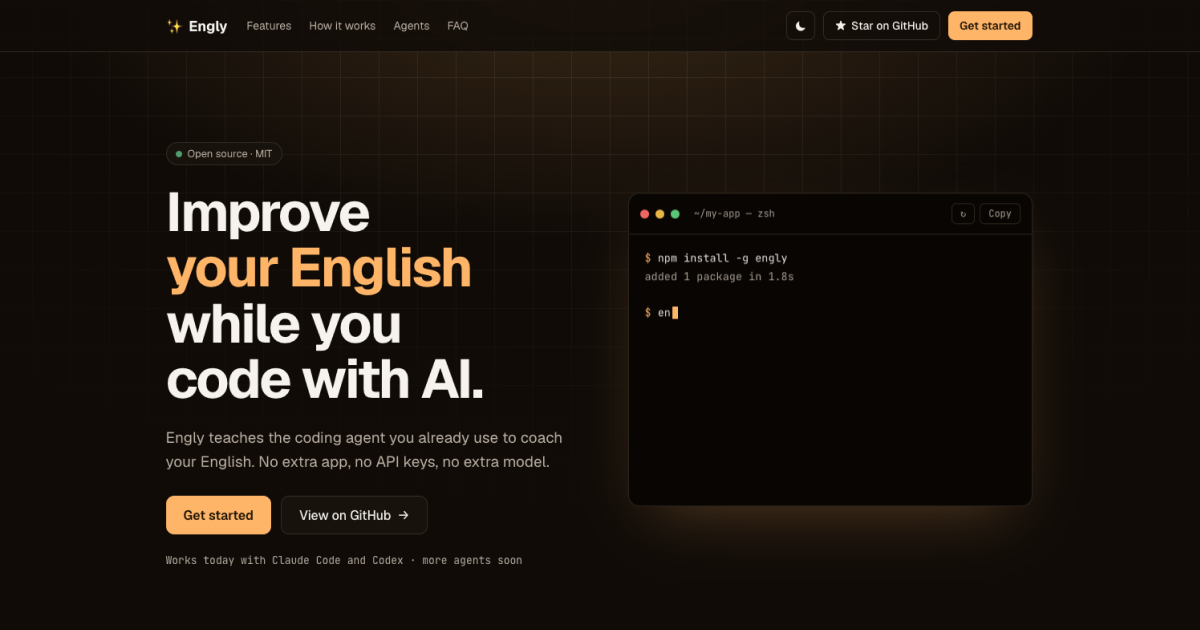
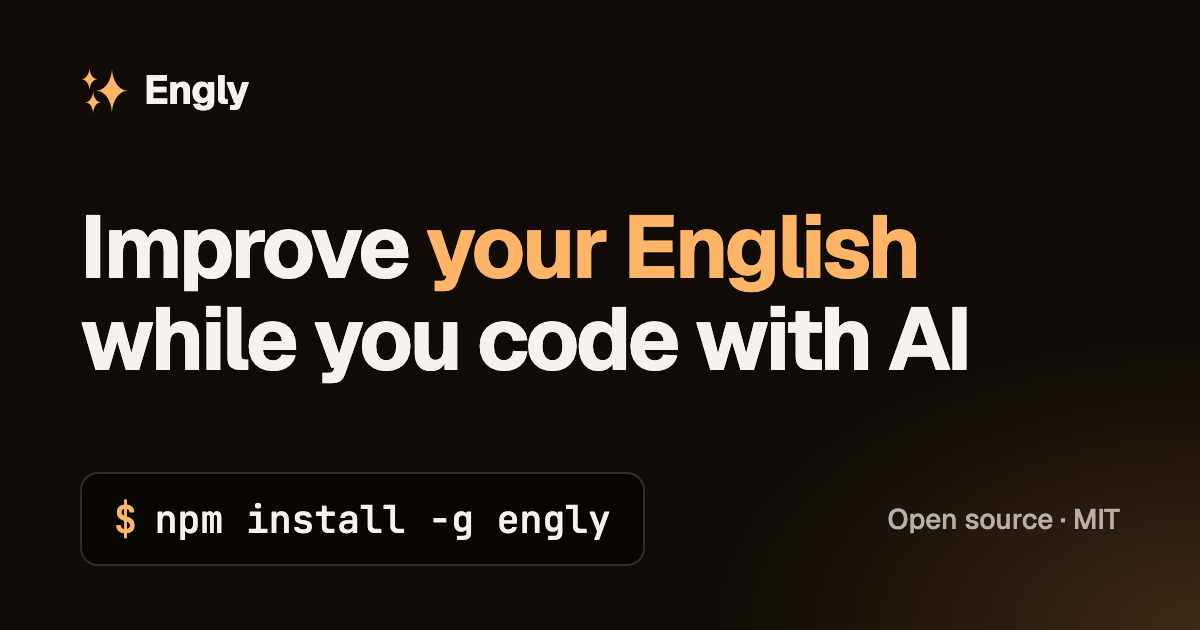
feat: OpenCode support and social preview metadata (1.9.0) (#15)

diff --git a/site/scripts/og.html b/site/scripts/og.html
@@ -1,0 +1,109 @@
+<!doctype html>
+<html lang="en">
+  <head>
+    <meta charset="utf-8" />
+    <style>
+      @font-face {
+        font-family: 'Geist';
+        src: url('{{GEIST}}') format('woff2');
+        font-weight: 100 900;
+      }
+      @font-face {
+        font-family: 'JetBrains Mono';
+        src: url('{{MONO}}') format('woff2');
+        font-weight: 100 800;
+      }
+      * {
+        box-sizing: border-box;
+        margin: 0;
+      }
+      html,
+      body {
+        width: 1200px;
+        height: 630px;
+        overflow: hidden;
+      }
+      body {
+        --bg: oklch(0.155 0.012 70);
+        --fg: oklch(0.965 0.006 70);
+        --mut: oklch(0.76 0.02 70);
+        --acc: oklch(0.83 0.13 65);
+        --term: oklch(0.12 0.012 70);
+        --tline: oklch(0.3 0.02 70);
+        position: relative;
+        display: flex;
+        flex-direction: column;
+        justify-content: space-between;
+        padding: 64px 80px;
+        background:
+          radial-gradient(ellipse 700px 420px at 100% 100%, oklch(0.83 0.13 65 / 0.18), transparent 70%),
+          var(--bg);
+        color: var(--fg);
+        font-family: 'Geist', system-ui, sans-serif;
+      }
+      .brand {
+        display: flex;
+        align-items: center;
+        gap: 16px;
+        font-size: 40px;
+        font-weight: 700;
+        letter-spacing: -0.02em;
+      }
+      .brand svg {
+        width: 48px;
+        height: 48px;
+      }
+      h1 {
+        max-width: 1040px;
+        font-size: 88px;
+        font-weight: 700;
+        line-height: 1.04;
+        letter-spacing: -0.035em;
+      }
+      h1 span {
+        color: var(--acc);
+      }
+      .foot {
+        display: flex;
+        align-items: center;
+        justify-content: space-between;
+      }
+      .cmd {
+        display: inline-flex;
+        align-items: center;
+        gap: 18px;
+        padding: 20px 32px;
+        border: 2px solid var(--tline);
+        border-radius: 18px;
+        background: var(--term);
+        font-family: 'JetBrains Mono', ui-monospace, monospace;
+        font-size: 38px;
+        font-weight: 500;
+      }
+      .cmd b {
+        color: var(--acc);
+        font-weight: 500;
+      }
+      .tag {
+        color: var(--mut);
+        font-size: 28px;
+        font-weight: 500;
+      }
+    </style>
+  </head>
+  <body>
+    <div class="brand">
+      <svg viewBox="0 0 32 32" fill="#FFB567" xmlns="http://www.w3.org/2000/svg">
+        <path d="M21.334 1.03125C21.334 9.19566 25.7462 16.5 31.9688 16.5C25.7462 16.5 21.334 23.8049 21.334 31.9688C21.334 23.8049 16.9218 16.5 10.6992 16.5C16.9218 16.5 21.334 9.19566 21.334 1.03125Z" />
+        <path d="M8.76634 16.5C8.76634 20.5827 10.9717 24.2344 14.084 24.2344C10.9717 24.2344 8.76634 27.8871 8.76634 31.9688C8.76634 27.8871 6.56102 24.2344 3.4487 24.2344C6.56102 24.2344 8.76634 20.5827 8.76634 16.5Z" />
+        <path d="M6.34838 1.03125C6.34838 5.11345 8.5537 8.76562 11.666 8.76562C8.55422 8.76562 6.34838 12.4183 6.34838 16.5C6.34838 12.4183 4.14305 8.76562 1.03074 8.76562C4.14305 8.76562 6.34838 5.11345 6.34838 1.03125Z" />
+      </svg>
+      Engly
+    </div>
+    <h1>Improve <span>your English</span> while you code with AI</h1>
+    <div class="foot">
+      <div class="cmd"><b>$</b> npm install -g engly</div>
+      <div class="tag">Open source · MIT</div>
+    </div>
+  </body>
+</html>

diff --git a/test/lifecycle.test.ts b/test/lifecycle.test.ts
@@ -430,6 +430,36 @@ describe('init', () => {
   });
 });
 
+describe('opencode', () => {
+  const block = async (file: string) => {
+    const text = await read(file);
+    return text.slice(text.indexOf('<!-- engly:start'), text.indexOf('<!-- engly:end -->'));
+  };
+
+  it('embeds the instructions in AGENTS.md and installs the skills in .agents/skills', async () => {
+    await write('AGENTS.md', USER_TEXT);
+    await install({ tools: 'opencode' });
+
+    const text = await read('AGENTS.md');
+    expect(text.startsWith(USER_TEXT)).toBe(true);
+    expect(await block('AGENTS.md')).toContain('Engly – English coach');
+    expect(text).not.toContain('@.engly/engly.md');
+    expect(await exists('.agents/skills/engly-on/SKILL.md')).toBe(true);
+    expect(await exists('.claude')).toBe(false);
+    expect(await exists('CLAUDE.md')).toBe(false);
+  });
+
+  it('imports in CLAUDE.md and embeds in AGENTS.md when both agents have their own file', async () => {
+    await write('CLAUDE.md', USER_TEXT);
+    await install({ tools: 'claude,opencode' });
+
+    expect(await block('CLAUDE.md')).toContain('@.engly/engly.md');
+    expect(await block('AGENTS.md')).toContain('Engly – English coach');
+    expect(await exists('.claude/skills/engly-on/SKILL.md')).toBe(true);
+    expect(await exists('.agents')).toBe(false);
+  });
+});
+
 describe('codex', () => {
   const block = async (file: string) => {
     const text = await read(file);

diff --git a/site/src/data/content.ts b/site/src/data/content.ts
@@ -86,7 +86,7 @@ export const features: { title: string; body: string }[] = [
 export const agents: { name: string; file: string; available?: boolean }[] = [
   { name: 'Claude Code', file: 'CLAUDE.md', available: true },
   { name: 'Codex', file: 'AGENTS.md', available: true },
-  { name: 'OpenCode', file: 'AGENTS.md' },
+  { name: 'OpenCode', file: 'AGENTS.md', available: true },
   { name: 'Cursor', file: '.cursor/rules/engly.mdc' },
   { name: 'GitHub Copilot', file: '.github/copilot-instructions.md' },
 ];
@@ -100,7 +100,7 @@ export const faq: { question: string; answer: string }[] = [
   {
     question: 'Which agents does it work with?',
     answer:
-      'Claude Code and Codex today. Pick them in <code>engly init</code> or pass <code>--tools claude,codex</code>. OpenCode, Cursor and GitHub Copilot are coming soon.',
+      'Claude Code, Codex and OpenCode today. Pick them in <code>engly init</code> or pass <code>--tools claude,codex,opencode</code>. Cursor and GitHub Copilot are coming soon.',
   },
   { question: 'Will it slow me down?', answer: 'No. Feedback is a few lines and it never waits for confirmation.' },
   {

diff --git a/test/project.test.ts b/test/project.test.ts
@@ -108,8 +108,13 @@ describe('candidateFiles', () => {
     expect(await candidateFiles(root, ['codex'])).toEqual(['AGENTS.md']);
   });
 
+  it('lists AGENTS.md once for Codex and OpenCode', async () => {
+    expect(await candidateFiles(root, ['codex', 'opencode'])).toEqual(['AGENTS.md']);
+    expect(await candidateFiles(root, ['opencode'])).toEqual(['AGENTS.md']);
+  });
+
   it('ignores tools that are not implemented yet', async () => {
-    expect(await candidateFiles(root, ['opencode', 'cursor'])).toEqual([]);
+    expect(await candidateFiles(root, ['cursor', 'copilot'])).toEqual([]);
   });
 });
 
@@ -156,7 +161,7 @@ describe('configuredTools', () => {
   });
 
   it('falls back to the implemented tools without a config or tools', () => {
-    expect(configuredTools(null)).toEqual(['claude', 'codex']);
-    expect(configuredTools({ ...defaultConfig('1.0.0'), tools: ['cursor'] })).toEqual(['claude', 'codex']);
+    expect(configuredTools(null)).toEqual(['claude', 'codex', 'opencode']);
+    expect(configuredTools({ ...defaultConfig('1.0.0'), tools: ['cursor'] })).toEqual(['claude', 'codex', 'opencode']);
   });
 });

diff --git a/src/adapters/index.ts b/src/adapters/index.ts
@@ -11,7 +11,7 @@ export { TOOL_IDS } from './types.js';
 // Adding a new agent = adding its adapter here (spec §5).
 export const adapters: Record<ToolId, Adapter> = { claude, codex, opencode, cursor, copilot };
 
-export const IMPLEMENTED_TOOLS: readonly ToolId[] = ['claude', 'codex'];
+export const IMPLEMENTED_TOOLS: readonly ToolId[] = ['claude', 'codex', 'opencode'];
 
 export function skillTargets(tools: readonly ToolId[]): string[] {
   const chosen: string[] = [];

diff --git a/src/adapters/opencode.ts b/src/adapters/opencode.ts
@@ -7,5 +7,6 @@ export const opencode: Adapter = {
   delivery: 'embedded',
   detect: (cwd) => anyExists(cwd, ['opencode.json', 'opencode.jsonc', '.opencode']),
   instructionFile: () => 'AGENTS.md',
+  instructionFiles: ['AGENTS.md'],
   skillDirs: ['.agents/skills', '.claude/skills', '.opencode/skills'],
 };

diff --git a/README.md b/README.md
@@ -23,14 +23,14 @@ You write prompts to an AI all day. Why not improve your English while you do it
 - **No API keys, no extra model.** The agent you already use does the coaching.
 - **For any level.** From A2 to C1, in any native language.
 
-Engly teaches the coding agent you already use (Claude Code, Codex, Cursor…) to coach your English. Every prompt becomes a tiny lesson: the agent shows you how to say it in clear English, points out a couple of mistakes, and then does the task as if you had written the better prompt.
+Engly teaches the coding agent you already use (Claude Code, Codex, OpenCode, Cursor…) to coach your English. Every prompt becomes a tiny lesson: the agent shows you how to say it in clear English, points out a couple of mistakes, and then does the task as if you had written the better prompt.
 
 No extra app, no extra model, no extra cost. Just better English and clearer prompts.
 
 ## 🚀 Quick start
 
 > [!NOTE]
-> Engly is in early development. Today it works for **Claude Code** and **Codex**. More agents and `engly config` are coming soon.
+> Engly is in early development. Today it works for **Claude Code**, **Codex** and **OpenCode**. More agents and `engly config` are coming soon.
 
 Install it with one command:
 
@@ -63,7 +63,7 @@ Open your agent as usual. Your next prompt will be coached. 🎉
 
 | Command | Description |
 |---|---|
-| `engly init` | Set up Engly in the project. Flags: `--tools claude,codex`, `--style light\|detailed`, `--no-apply` |
+| `engly init` | Set up Engly in the project. Flags: `--tools claude,codex,opencode`, `--style light\|detailed`, `--no-apply` |
 | `engly update` | Refresh skills and instructions to the installed version |
 | `engly enable` / `disable` | Turn the coach on or off for the project |
 | `engly status` | Show where Engly is installed and whether it is active |

diff --git a/CHANGELOG.md b/CHANGELOG.md
@@ -5,6 +5,16 @@ All notable changes to this project are documented in this file.
 The format is based on [Keep a Changelog](https://keepachangelog.com/en/1.1.0/),
 and this project adheres to [Semantic Versioning](https://semver.org/spec/v2.0.0.html).
 
+## [1.9.0] - 2026-10-26
+
+### Added
+
+- OpenCode support. `engly init` offers OpenCode in the wizard and accepts `--tools opencode`. The Engly block goes in `AGENTS.md` with the full coach instructions embedded (OpenCode can't follow `@imports`) and the skills go in `.agents/skills`.
+
+### Fixed
+
+- Landing page link previews: `og:url` now points to the site, and the page has a canonical link plus the missing `twitter:*`, `og:image:alt`, `og:site_name` and `og:locale` tags. The `og.png` card is redrawn as a readable 1200x630 image, generated by `npm run og` in `site/`.
+
 ## [1.8.1] - 2026-10-22
 
 ### Added
